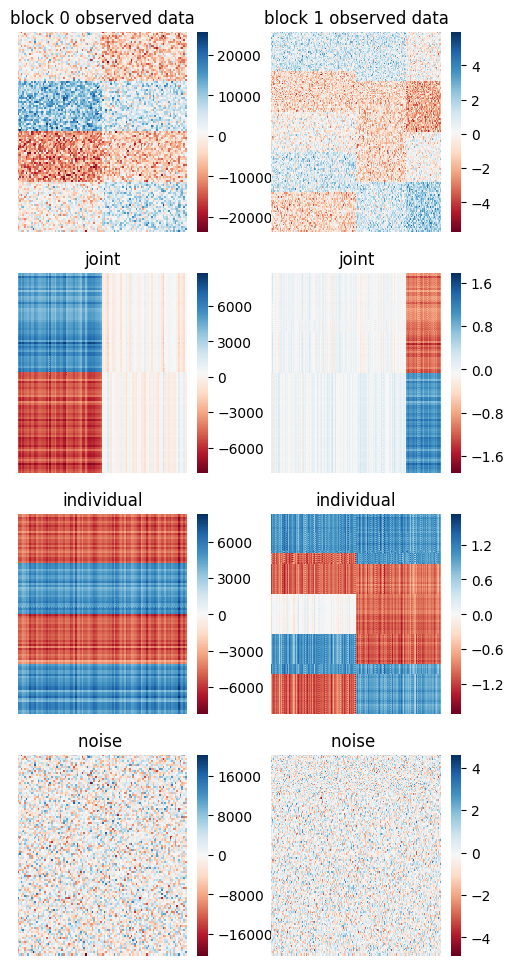
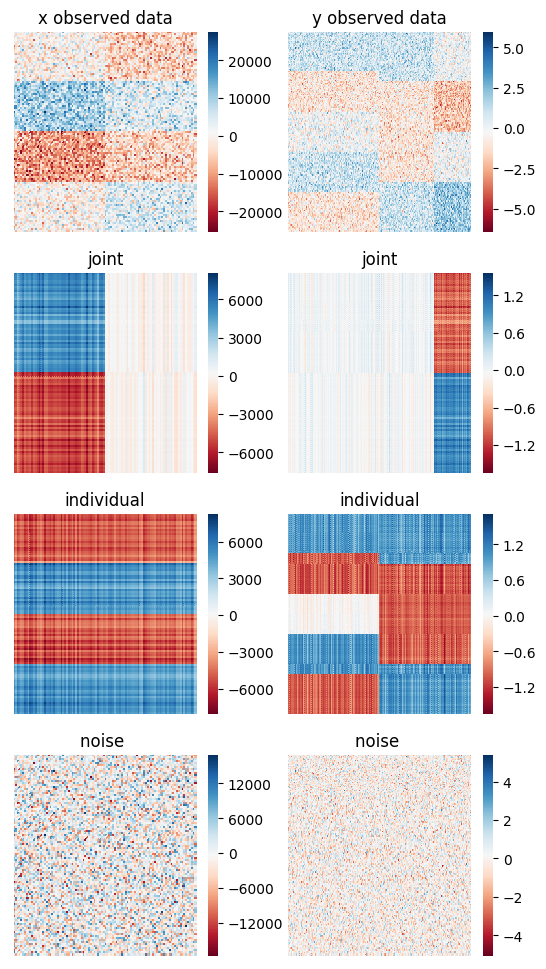
up

diff --git a/doc/make_readme_figures.py b/doc/make_readme_figures.py
@@ -5,13 +5,13 @@ from jive.viz.block_visualization import data_block_heatmaps, jive_full_estimate
 import matplotlib.pyplot as plt
 
 X, Y = generate_data_ajive_fig2()
-plt.figure(figsize=[6,  3])
-data_block_heatmaps([X, Y])
+plt.figure(figsize=[6.5,  3])
+data_block_heatmaps({'x': X, 'y': Y})
 plt.savefig('figures/data_heatmaps.png', bbox_inches='tight')
 plt.close()
 
 # determine initial signal ranks by inspecting scree plots
-plt.figure(figsize=[6, 3])
+plt.figure(figsize=[8, 3])
 plt.subplot(1, 2, 1)
 PCA().fit(X).plot_scree()
 plt.subplot(1, 2, 2)
@@ -22,13 +22,13 @@ plt.close()
 ajive = AJIVE(init_signal_ranks={'x': 2, 'y': 3})
 ajive.fit(blocks={'x': X, 'y': Y})
 
-plt.figure(figsize=[6, 12])
+plt.figure(figsize=[6.5, 12])
 jive_full_estimate_heatmaps(ajive.get_full_block_estimates(),
                             blocks={'x': X, 'y': Y})
 plt.savefig('figures/jive_estimate_heatmaps.png', bbox_inches='tight')
 plt.close()
 
-plt.figure(figsize=[3, 3])
+plt.figure(figsize=[8, 8])
 ajive.plot_joint_diagnostic()
 plt.savefig('figures/jive_diagnostic.png', bbox_inches='tight')
 plt.close()
